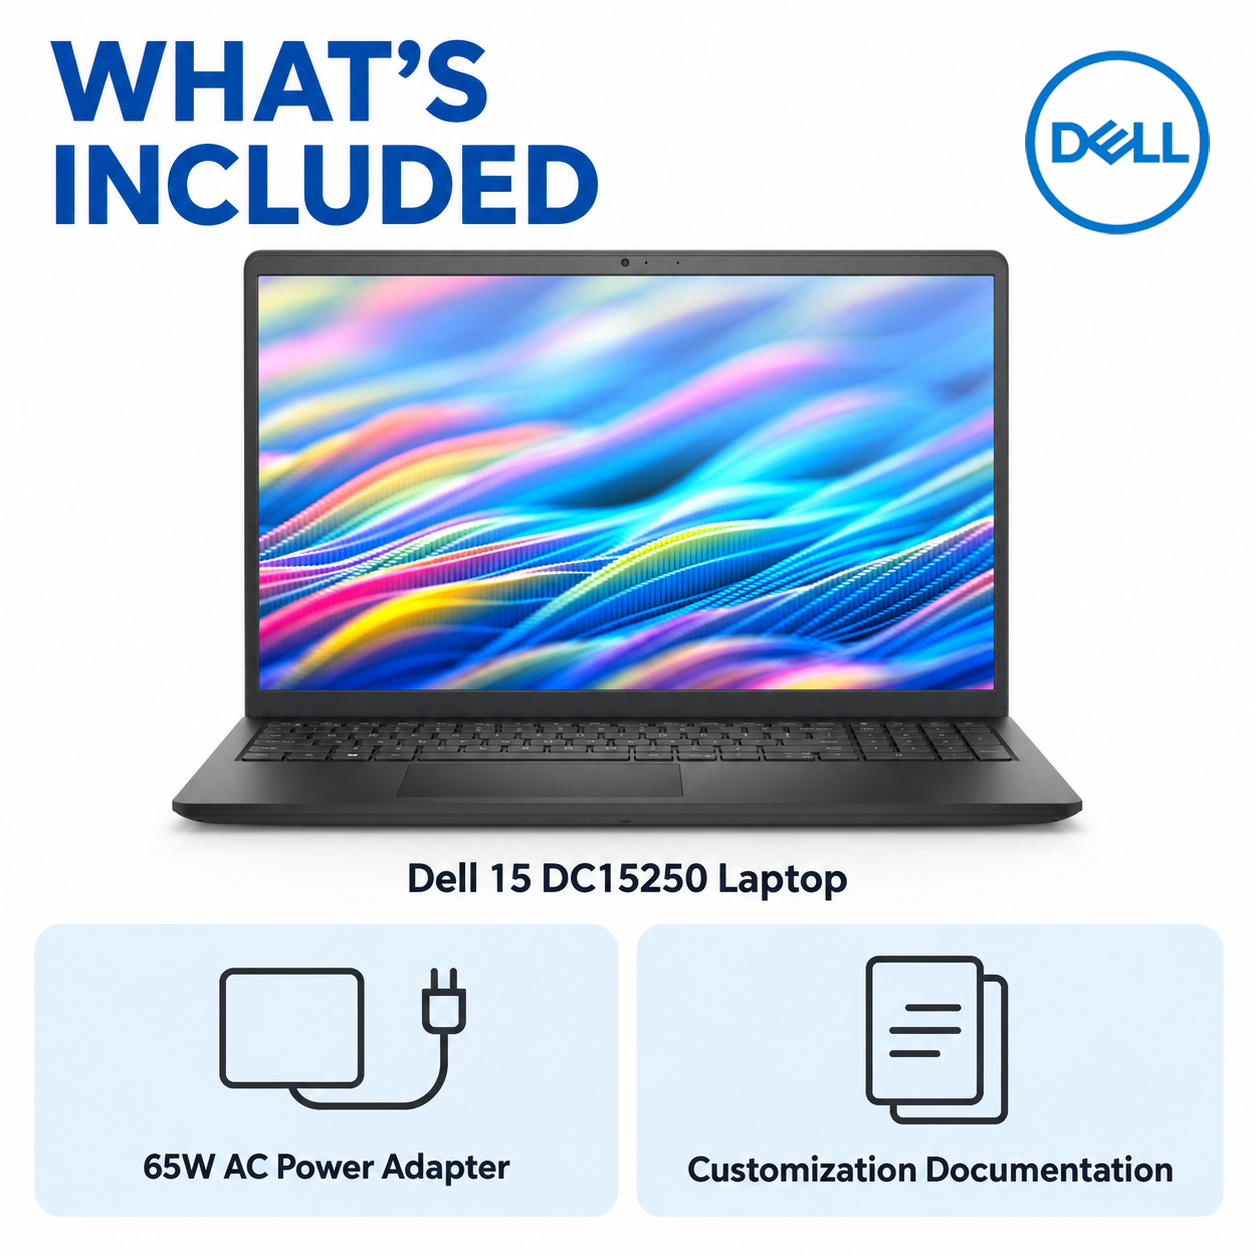
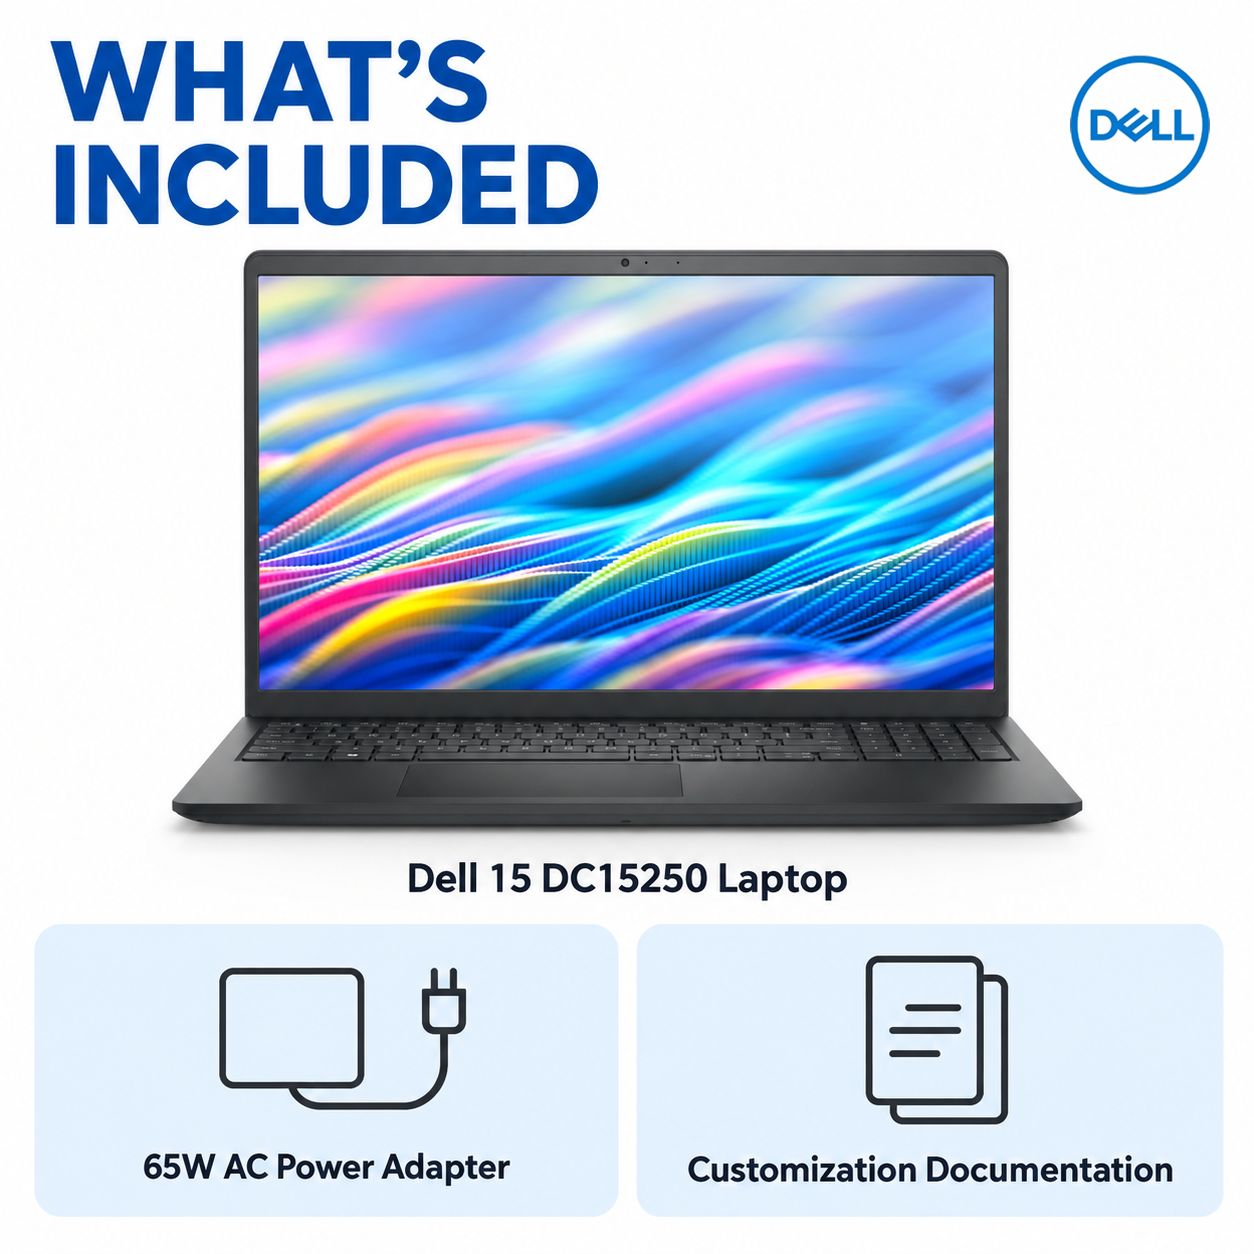
fix: rebalance gallery branding and spacing

Changed region(s): [[0.8086, 0.0311, 0.9641, 0.1866]]

diff --git a/references/amazon-product-image-workflow.md b/references/amazon-product-image-workflow.md
@@ -87,7 +87,7 @@ OEM 品牌授权按 [`brand-authorization-policy.md`](brand-authorization-policy
 9. Business/Work 的 Office 与 Copilot 必须执行 `business-work-hero-styles.md` 的权益账本。`Lifetime Office` 只在卖家对准确 SKU 提供可审计依据并批准准确措辞时使用；否则展示准确 Office 产品名与许可模式。物理 Copilot key、Windows Copilot、Microsoft 365 Copilot 许可和 Copilot+ PC 是四种不同事实，不能互相推断。
 10. 对 customized laptop/desktop 的 PT01–PT08，先从产品事实账本确认底机制造商，再选择同一 OEM 的官方或已获准 Logo 资产。若产品是 HP，只能使用 HP Logo；品牌字段冲突、来源不明或资产未获准时停止合成。该 Logo 仅识别底机来源，不得暗示 OEM 完成、认可或为卖家升级提供保修。
 11. 先完成并保存无品牌 PT01–PT08 母版，再用原始 Logo 文件进行确定性后处理；禁止让 ImageGen 重画 Logo、品牌文字或商标。每个生成 prompt 必须主动预留约 `18% × 18%` 的自然负空间供 OEM mark 使用，不绘制占位框。默认使用带真实 alpha 的官方/获准透明 Logo 直接融入画面，不加统一白色矩形底牌；源文件带中性背景时，优先寻找透明原始资产，或使用 `scripts/remove-neutral-logo-background.ps1` 只移除背景并保留官方颜色、比例和几何。每张图单独选择位置，不设固定右下角。没有合格安全区时必须重新排版或重做该 PT 图。
-12. 在产品目录保存 `logo-placement.json`，除逐图记录 `x`、`y`、`width`、`height` 与样式外，还必须设置 `preferredTreatment: INTEGRATED_TRANSPARENT_MARK`、`minimumClearancePx >= 16`、`thumbnailReviewSizePx: 200`、`minimumVisibleLogoLongEdgePxAtThumbnail: 28`、`minimumVisibleLogoShortEdgePxAtThumbnail: 10`，并为每张图记录 `protectedZones`。`transparent` 和 `circle-keyline` 必须使用真实透明资产；`rounded-badge` 不是默认值，只有 OEM 规范要求时才允许，并必须记录 `badgeExceptionReason`。`scripts/add-brand-badge.ps1` 必须在合成前验证 alpha、画布边缘、受保护区和缩略图可见尺寸；任一失败即停止。
+12. 在产品目录保存 `logo-placement.json`，除逐图记录 `x`、`y`、`width`、`height` 与样式外，还必须设置 `preferredTreatment: INTEGRATED_TRANSPARENT_MARK`、`minimumClearancePx >= 16`、`minimumComponentSeparationPx >= 32`、`maximumLogoLongEdgePercentOfCanvas <= 12`、`thumbnailReviewSizePx: 200`、`minimumVisibleLogoLongEdgePxAtThumbnail >= 20`、`minimumVisibleLogoShortEdgePxAtThumbnail >= 10`，并为每张图记录 `protectedZones`。Logo 可见长边默认控制在画布 `9%–12%`，与电脑、标题、卡片和线条至少保持 `32 px` 或画布短边 `2.5%` 的距离（取较大值）。每个 placement 还必须记录 `compositionSpacingReview: PASS` 与 `placeholderFrameReview: PASS`。`transparent` 和 `circle-keyline` 必须使用真实透明资产；`rounded-badge` 不是默认值，只有 OEM 规范要求时才允许，并必须记录 `badgeExceptionReason`。`scripts/add-brand-badge.ps1` 必须在合成前验证 alpha、最大占比、画布边缘、受保护区、组件间距和缩略图可见尺寸；任一失败即停止。
 13. 内部可先输出到独立工作目录并以 100% 尺寸逐张检查，同时检查 200 px 缩略图。交给用户审核的 review 目录必须已经用 `scripts/add-brand-badge.ps1` 从 `unbranded/` 完成确定性合成，并生成 `logo-qa.json`，记录 OEM Logo 资产 SHA-256、每张图的实际可见边界、缩略图投影尺寸及 `PASS` 结果。Review 图必须包含全部文字、Logo、Windows package 和产品信息；用户批准决定是否采用或提交，不负责批准后再补齐成品。不得在已带 Logo 的图上再次叠加。
 14. Amazon 竞品页面只用于研究视觉层级、留白、信息密度和应覆盖的购买问题，不得复刻其独特构图、配色组合、图标、文案、人物场景或使用其图片资产。最终图必须保持原创布局并准确对应本机型。
 15. 若出现完全由 AI 生成的写实人物，按 `image-spec.md` 添加并记录所需元数据。
@@ -100,7 +100,7 @@ OEM 品牌授权按 [`brand-authorization-policy.md`](brand-authorization-policy
 - 对照最终 Listing 复查 RAM/SSD、OS、屏幕、接口和随箱配件。任何不一致都必须返回修改，不能用免责声明掩盖错误。
 - 对 PT01–PT08 执行 OCR 与语义去重：核对 `Gallery Content Ownership Matrix`、每张图的新增信息、核心规格归属和任意两张图的主要信息重合。重合超过 `supporting-gallery-styles.md` 的阈值、PT05 成为第二张配置表、或 PT07 退化为规格回顾时，整套图库不得进入 `FINAL_ASSET_QA_PASS`，必须重做对应槽位。
 - 对 PT01–PT08 执行 `UNIVERSAL_OEM_LOGO_VISIBILITY_RULE`：`logo-qa.json` 必须存在并整体为 `PASS`；任何 Logo 在 200 px 缩略图投影中长边小于 28 px、短边小于 10 px，或低对比、碰撞、裁切，均将整套图库置为 `REWORK_REQUIRED`。
-- 对 PT01–PT08 执行 `UNIVERSAL_OEM_LOGO_INTEGRATION_RULE`：检查源资产 alpha 与 200 px contact sheet；出现灰/白矩形源底、统一白色贴纸感、未经记录的硬 badge 或明显破坏视觉层级时，整套图库置为 `REWORK_REQUIRED`。
+- 对 PT01–PT08 执行 `UNIVERSAL_OEM_LOGO_INTEGRATION_RULE` 和 `UNIVERSAL_BRAND_SPACING_RULE`：检查源资产 alpha 与 200 px contact sheet；出现灰/白矩形源底、统一白色贴纸感、虚线占位框、旧 Logo/旧 package 残留、未经记录的硬 badge、Logo 长边超过画布 `12%`、与电脑/文字/信息卡间距不足，或明显破坏视觉层级时，整套图库置为 `REWORK_REQUIRED`。增强主图的 Windows asset 也必须先清除底图里的旧版本，每张只允许一个确定性合成单元。
 
 ### 5A. 快速成功调用：标准成品流水线
 

diff --git a/product generated photo/VL-1249/image-manifest.md b/product generated photo/VL-1249/image-manifest.md
@@ -13,7 +13,10 @@
 - `oem_logo_asset_alpha_check`: `PASS`
 - `oem_logo_preferred_treatment`: `INTEGRATED_TRANSPARENT_MARK`
 - `logo_thumbnail_review_size_px`: `200`
-- `logo_thumbnail_min_visible_edges_px`: `28 long / 10 short` (this product uses the stricter plan value `28 / 12`)
+- `logo_thumbnail_min_visible_edges_px`: `20 long / 10 short` (this product uses `22 / 10`)
+- `logo_maximum_long_edge_percent_of_canvas`: `12` (current Dell marks: approximately `11.2%`)
+- `logo_minimum_component_separation_px`: `40`
+- `logo_placeholder_frame_review`: `PASS`
 - `logo_qa_report`: `logo-qa.json`
 - `final_image_qa_report`: `final-image-qa.json`
 - Internal model: `VL-1249`
@@ -43,6 +46,7 @@
 - Integrated derivative: `assets/branding/dell-logo-blue-transparent.png`, created deterministically with `scripts/remove-neutral-logo-background.ps1`. The process removes only the neutral raster background; Dell color, geometry and proportions remain unchanged.
 - The Dell logo was not regenerated by an image model. It was applied directly into designed negative space on PT01–PT08 with `scripts/add-brand-badge.ps1` using the `transparent` treatment declared in `logo-placement.json`.
 - The first review exposed two universal workflow defects: several logos were too small at gallery-thumbnail size, and the hard white badge made the mark look like a pasted rectangle. The deterministic workflow now checks both the 200 px visibility threshold and source transparency, while hard rectangular badges require a documented brand-guideline exception.
+- The second review found the corrected marks visually oversized, a residual dashed placeholder behind PT02, and a doubled Windows package in the three-quarter enhanced MAIN. PT01–PT08 now use a balanced 140 px mark with independent spacing; PT02 was cleaned back to an unbranded, frameless master before recompositing; the three-quarter MAIN was cleaned of both old package layers and receives exactly one smaller deterministic package with separate negative space.
 - `MAIN-STRICT` added overlay: none.
 - Enhanced front Windows treatment: `WINDOWS_LOGO_PRO_LOCKUP`, reproducibly cropped from the approved fixed package as `assets/branding/windows-11-pro-lockup.png`, then applied with `scripts/add-fixed-image-overlay.ps1`.
 - Enhanced three-quarter Windows treatment: `FIXED_WINDOWS_11_PRO_PACKAGE`, using `assets/branding/windows-11-pro-package.png`.
@@ -82,9 +86,11 @@
 - [x] Exactly 11 canonical final images exist: three MAIN choices and PT01–PT08.
 - [x] `MAIN-STRICT` has a pure white background, no added copy, badge, watermark or Windows treatment.
 - [x] The two enhanced MAIN choices use different approved deterministic Windows treatments: lockup on front, fixed package on three-quarter.
+- [x] The three-quarter enhanced MAIN contains exactly one Windows package; both earlier overlapping layers were removed before the single smaller fixed package was applied with independent negative space.
 - [x] PT01 contains no Windows package, Windows text tile or placeholder.
 - [x] PT01–PT08 use the verified Dell OEM logo with deterministic placement.
 - [x] `logo-qa.json` confirms all eight OEM marks meet the 200 px thumbnail visibility threshold, preserve aspect ratio, use transparent integrated treatment, contain no visible source rectangle or generic white card, and remain inside the declared canvas clearance.
+- [x] All eight OEM marks stay at approximately 11.2% of the canvas long edge, pass the 40 px composition-spacing review, and contain no dashed placeholder frame or old Logo beneath the final mark.
 - [x] PT03 is the sole complete configuration page and carries the only supporting-gallery Windows lockup.
 - [x] PT04 owns display/design; PT05 is a causal workflow; PT06 is the exact in-box view; PT07 is a separate verified value; PT08 owns connectivity.
 - [x] Product model, configuration, image copy, ports and serviceability claims were cross-checked against ERP and Dell sources.

diff --git a/SKILL.md b/SKILL.md
@@ -19,6 +19,7 @@ description: "Run the MegaPC Amazon Custom PC workflow for complete listing prod
 - MegaPC / J-Tech Digital 已确认其目录内销售的各 OEM 品牌均具有适用于商品销售与图片制作的经销商、合作伙伴或书面品牌素材授权。按 [`references/brand-authorization-policy.md`](references/brand-authorization-policy.md) 记录为 `USER_CONFIRMED_CATALOG_WIDE`；常规 OEM 产品图片与正确 OEM Logo 不得再仅因公开网页未展示授权证明而阻断。仍须核验品牌与准确机型匹配、使用官方/品牌提供的原始资产、遵守 Logo 规范，并对游戏、软件、人物及其他第三方 IP 另行执行授权闸门。
 - `UNIVERSAL_OEM_LOGO_VISIBILITY_RULE` 对所有产品、品牌、受众和 style family 强制生效：PT01–PT08 每张图都必须在无品牌母版完成后，用正确 OEM 官方/获准原始 Logo 确定性合成；仅“文件里有 Logo”不算通过。`logo-placement.json` 必须启用 200 px 缩略图量化闸门，最终可见 Logo 在该缩略图上的长边至少 28 px、短边至少 10 px，且具有足够对比背景与安全区。任一 PT 缺 Logo、太小、被裁切、与内容碰撞或缩略图不可辨认时，整套图为 `REWORK_REQUIRED`，不得标为 `FINAL_ASSET_QA_PASS`。
 - `UNIVERSAL_OEM_LOGO_INTEGRATION_RULE` 同样强制生效：默认使用带真实透明通道的官方/获准 Logo，在生成时预留的自然负空间中直接合成，使标志成为构图的一部分。不得把带灰/白矩形背景的 Logo 图片或统一白色方卡贴在成品上。深色复杂背景优先换安全位置或使用 OEM 允许的细 keyline/反白原始资产；只有品牌规范明确要求背景牌时才可用硬 badge，并在 placement plan 记录 `badgeExceptionReason`。公开源文件只有中性背景时，可用 `scripts/remove-neutral-logo-background.ps1` 生成不改颜色和比例的可复现透明 derivative。
+- `UNIVERSAL_BRAND_SPACING_RULE` 强制控制标志尺寸和距离：Logo 可见长边默认占画布 `9%–12%`，不得超过 `12%`；与电脑轮廓、标题、信息卡、线条及其他视觉组件保持至少 `32 px` 或画布短边 `2.5%` 的独立空间（取较大值）。合成前必须确认底图没有虚线框、占位牌、残留底卡或旧 Logo；否则先清理无品牌母版，禁止直接在旧元素上叠加。
 
 ## 输入与规则文件
 

diff --git a/references/business-laptop-gallery-styles.md b/references/business-laptop-gallery-styles.md
@@ -37,7 +37,7 @@
 - 所有逐槽示例均受 [supporting-gallery-styles.md](supporting-gallery-styles.md) 的 `Gallery Content Ownership Matrix` 约束：PT03 集中完整销售配置，PT04 集中显示/机身事实，PT05 解释工作关系而不重列配置，PT07 只能使用一个尚未解释的独立价值。示例中可能使用的功能词只是候选，不得跨槽重复。
 - B12–B16 的风景、城市、建筑、科技或 editorial 画面必须使用原创生成或具商业使用权的素材。不得截取竞品屏幕、图库水印、真实公司 Logo、可识别客户数据或受保护地标品牌元素。
 - OEM Logo 必须出现在 PT01–PT08 每一张附图，并保持固定角落、尺寸和保护区；仍不得让生成模型重画。
-- OEM Logo 还必须通过通用缩略图可见性闸门；Business 极简留白不能成为缩小 Logo 的理由。生成 prompt 必须主动为 200 px 缩略图仍可辨认的确定性 Logo badge 预留至少约 `18% × 18%` 的无冲突负空间，最终仍以 28 px/10 px 实测阈值为准。
+- OEM Logo 还必须通过通用缩略图可见性闸门；Business 极简留白不能成为缩小到无法辨认的理由，也不能把 Logo 放大到与产品竞争。生成 prompt 必须主动预留至少约 `18% × 18%` 的无冲突负空间，但实际 Logo 可见长边默认只占画布 `9%–12%`，在 200 px 缩略图中不小于 20 px/10 px 长短边阈值，其余空间用于与标题、电脑和信息卡建立视觉呼吸。
 - Business gallery 的默认 Logo 处理是透明官方 mark 融入浅色负空间，不是白色矩形 badge。标志周围依靠版面留白建立识别度；如果背景复杂，应移动 Logo 或重排构图，而不是截一块白底贴上去。圆形 keyline 或硬背景牌仅在 OEM 规范允许且必要时使用。
 - Windows 在 PT 图中的唯一默认所有者是 PT03：OS 行可使用一次获准标志 + `Windows 11 Pro` 锁定组合。其他 PT 不得为了“穿插”而重复 Windows。
 

diff --git a/references/supporting-gallery-styles.md b/references/supporting-gallery-styles.md
@@ -256,7 +256,7 @@ identity_ip_review: PASS|BLOCKED
 4. 人物/环境单独生成或取得授权，不能让生成模型重画真实电脑、键盘、接口、Logo 或软件商标。
 5. 用真实产品 mask 合成，最后确定性加入已获准 OEM、Windows、Office、Copilot 或硬件品牌资产。
 6. 逐张进行事实、版权、人物、包含物语义、100% 尺寸和 200 px 缩略图检查。
-7. 对 PT01–PT08 执行 `UNIVERSAL_OEM_LOGO_VISIBILITY_RULE`：用官方/获准 Logo 原始文件后期合成，200 px 缩略图中的可见 Logo 长边不得小于 28 px、短边不得小于 10 px；Logo 必须使用负空间与高对比底牌，不得用“存在但看不清”的小角标通过验收。
+7. 对 PT01–PT08 执行 `UNIVERSAL_OEM_LOGO_VISIBILITY_RULE`：用官方/获准 Logo 原始文件后期合成，200 px 缩略图中的可见 Logo 长边不得小于 20 px、短边不得小于 10 px；同时长边不得超过原画布 `12%`，并与电脑、标题、卡片和线条保持独立留白。不得用“存在但看不清”的小角标，也不得把 Logo 放大到与产品或标题竞争。
 8. 对 PT01–PT08 执行 `UNIVERSAL_OEM_LOGO_INTEGRATION_RULE`：优先使用透明官方 mark 直接落在自然负空间，不添加硬矩形底卡；深色场景使用 OEM 允许的 keyline/反白原始资产或重排负空间。带背景的位图必须先取得透明原始文件，或以可复现脚本只移除中性背景、保持官方颜色和比例。
 
 ## 交付闸门

diff --git a/references/compliance-rules.md b/references/compliance-rules.md
@@ -73,6 +73,12 @@ Amazon market research & originality
       uses a genuine transparent channel and natural negative space. A visible
       rectangular source background or generic white sticker/card is prohibited
       unless the OEM guideline requires it and `badgeExceptionReason` is recorded.
+- [ ] PT01–PT08 pass `UNIVERSAL_BRAND_SPACING_RULE`: visible Logo long edge is
+      no more than 12% of the canvas; component separation is at least 32 px or
+      2.5% of the canvas short edge; no dashed placeholder, old Logo, or residual
+      badge remains beneath the final mark.
+- [ ] Each enhanced MAIN contains exactly one approved Windows asset treatment;
+      no generated or earlier package remains beneath the deterministic overlay.
 - [ ] OEM or competitor listing conventions do not override the MegaPC
       brand-first title, required warranty/customization disclosure, or MFN
       requirements.

diff --git a/product generated photo/image-manifest-template.md b/product generated photo/image-manifest-template.md
@@ -38,7 +38,10 @@
 - `thumbnail_hierarchy_review`: `<PASS | BLOCKED>`
 - `universal_oem_logo_visibility_rule`: `<REQUIRED | PASS | FAIL>`
 - `logo_thumbnail_review_size_px`: `200`
-- `logo_thumbnail_min_visible_edges_px`: `28 long / 10 short`
+- `logo_thumbnail_min_visible_edges_px`: `20 long / 10 short`
+- `logo_maximum_long_edge_percent_of_canvas`: `12`
+- `logo_minimum_component_separation_px`: `32` (or `2.5%` of canvas short edge, whichever is greater)
+- `logo_placeholder_frame_review`: `PASS | FAIL`
 - `logo_qa_report`: `<product folder>/logo-qa.json`
 - `universal_oem_logo_integration_rule`: `<REQUIRED | PASS | FAIL>`
 - `oem_logo_asset_alpha_check`: `<PASS | FAIL | NOT_APPLICABLE_OFFICIAL_REVERSE_ASSET>`

diff --git a/references/image-spec.md b/references/image-spec.md
@@ -322,7 +322,9 @@ the approved logo lockup once on the OS line; other PT slots may not repeat it.
   `minimumClearancePx` of at least 16 pixels for the production canvas and a
   `protectedZones` array for every PT image. It must also declare
   `thumbnailReviewSizePx: 200`,
-  `minimumVisibleLogoLongEdgePxAtThumbnail: 28`, and
+  `minimumVisibleLogoLongEdgePxAtThumbnail: 20`,
+  `maximumLogoLongEdgePercentOfCanvas: 12`,
+  `minimumComponentSeparationPx: 32`, and
   `minimumVisibleLogoShortEdgePxAtThumbnail: 10`. Keep the rendered logo at least
   that distance from the canvas edge and every recorded protected zone; use a
   larger value when the OEM identity standard requires it. A placement that
